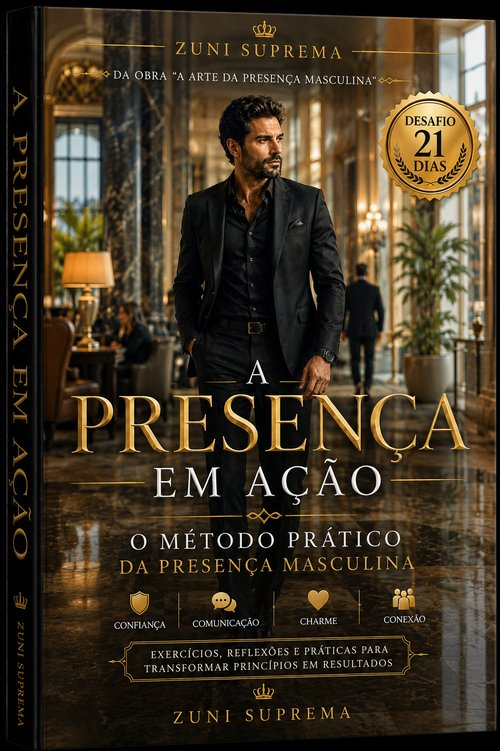
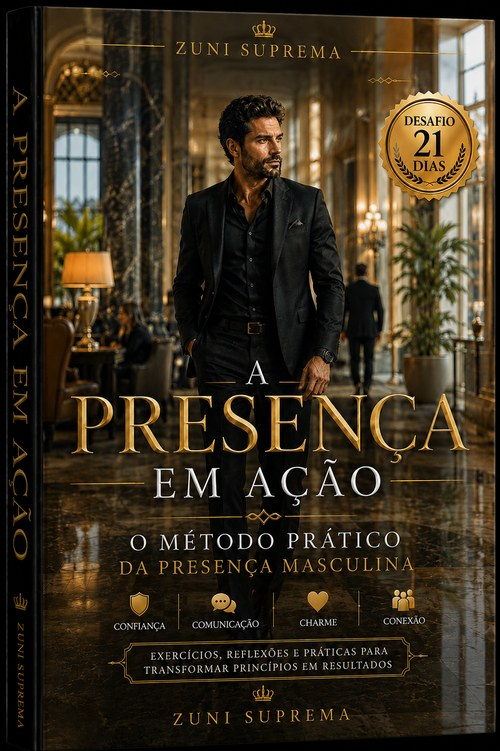
feat(loja): A Presença em Ação passa a obra independente
Remove a subordinacao a "A Arte da Presenca Masculina" no titulo,
resumo, descricao e capa. O livroId permanece
a-presenca-em-acao-apendice — identificador interno, nao muda.

Claude-Session: https://claude.ai/code/session_01SMVMHnqbjigbeys74yCYRG

diff --git a/src/lib/catalogoLivros.js b/src/lib/catalogoLivros.js
@@ -168,14 +168,14 @@ const CATALOGO = {
     descricao: 'Esta obra nasce de uma percepção simples e profundamente humana: muitos homens perderam a naturalidade da presença, não por falta de valor, mas por excesso de ruído — social, emocional, cultural. Ao longo de 21 capítulos, o livro percorre o que realmente sustenta o magnetismo masculino: a calma, a segurança sem arrogância, a comunicação elegante, a capacidade de gerar conforto emocional em quem está por perto. Trata também de temas práticos — imagem, voz, postura, o primeiro encontro, o poder da discrição — sempre a partir de um princípio central: presença não se atua, se constrói. Não é um manual de conquista nem de estratégia; é um convite à maturidade emocional como forma real de magnetismo.'
   },
   'a-presenca-em-acao-apendice': {
-    titulo: 'A Presença em Ação — Apêndice Prático',
+    titulo: 'A Presença em Ação',
     preco: 37.90,
     precoOriginal: 57.00,
     precoPromocional: 37.90,
     categoria: 'principal',
     departamento: 'Universo Masculino',
-    resumo: 'O complemento prático de "A Arte da Presença Masculina" — 12 exercícios objetivos, um por capítulo, para transformar princípio em hábito no dia a dia.',
-    descricao: '"A Arte da Presença Masculina" apresentou princípios. Este apêndice apresenta prática. Cada capítulo corresponde a uma dimensão da presença masculina refinada — confiança, controle emocional, comunicação, linguagem corporal, charme, aproximação, flerte saudável e relacionamentos — e traz um exercício objetivo para aplicar no cotidiano, seguido de uma reflexão para fechar com clareza. Inclui ainda um desafio estruturado de 21 dias, dividido em três semanas de progressão gradual. Não são fórmulas nem scripts — são convites à prática consciente e repetida, porque presença não se decora, se constrói.'
+    resumo: 'Doze exercícios objetivos, um por capítulo, para transformar princípio em hábito — presença que se constrói na prática, não na teoria.',
+    descricao: 'Presença não se decora — se constrói na prática. Cada capítulo corresponde a uma dimensão da presença masculina refinada — confiança, controle emocional, comunicação, linguagem corporal, charme, aproximação, flerte saudável e relacionamentos — e traz um exercício objetivo para aplicar no cotidiano, seguido de uma reflexão para fechar com clareza. Inclui ainda um desafio estruturado de 21 dias, dividido em três semanas de progressão gradual. Não são fórmulas nem scripts — são convites à prática consciente e repetida.'
   },
   'a-arte-invisivel-elegancia-masculina': {
     titulo: 'A Arte Invisível da Elegância Masculina',
